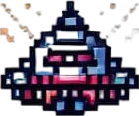
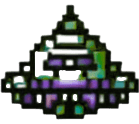
actualizacion de imagenes

diff --git a/games/galaga/galaga.py b/games/galaga/galaga.py
@@ -32,6 +32,7 @@ def load_sound(name):
 player_img = load_image('nave.png', 0.5)
 enemy_img = load_image('malo.png', 0.5)
 bullet_img = load_image('bala.png', 0.5)
+bulleta_img = load_image('balaAzul.png', 0.5)
 life_img = load_image('vida.png', 0.05)
 shoot_sound = load_sound('shoot.wav')
 explosion_sound = load_sound('explosion.wav')
@@ -162,7 +163,7 @@ class Enemy(pygame.sprite.Sprite):
         self.path_index = 0
 
     def shoot(self):
-        return Bullet(self.rect.centerx, self.rect.bottom, 5, bullet_img)
+        return Bullet(self.rect.centerx, self.rect.bottom, 5, bulleta_img)
 
 class EnemyFormation:
     def __init__(self):
@@ -181,7 +182,7 @@ class EnemyFormation:
         
         for row in range(rows):
             for col in range(cols):
-                x = 150 + col * 50
+                x = 250 + col * 50
                 y = 50 + row * 50
                 enemy = Enemy(x, y, row * cols + col, level)
                 self.enemies.add(enemy)
@@ -197,7 +198,7 @@ class EnemyFormation:
     def generate_entry_path(self, end_x, end_y):
         path = []
         start_x = random.randint(0, width)
-        start_y = -50
+        start_y = -10
         control_x = random.randint(0, width)
         control_y = random.randint(0, end_y)
         
